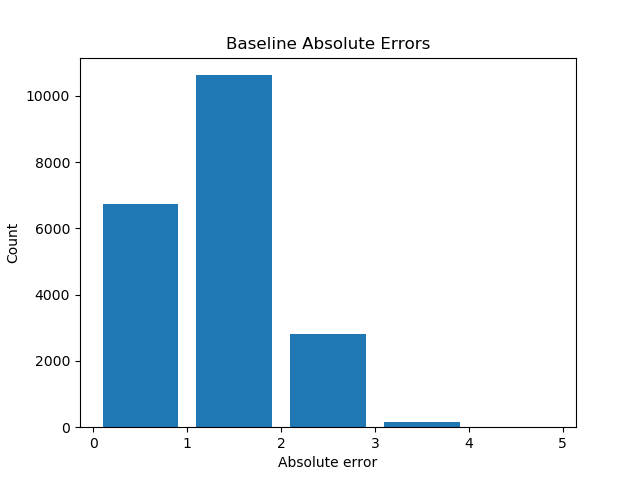
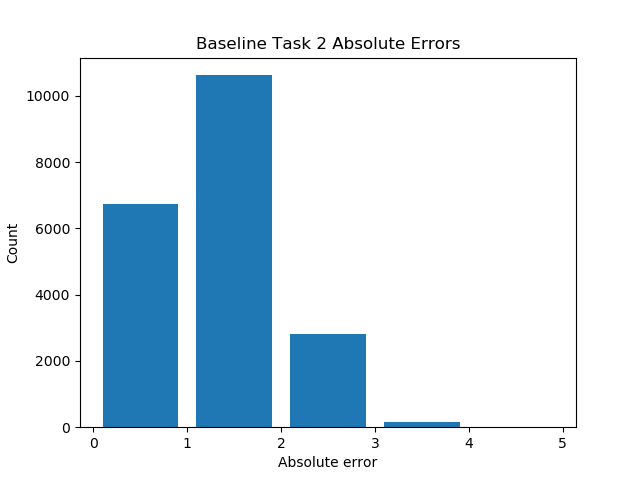
Revision 3

Changed region(s): [[0.3125, 0.0625, 0.7188, 0.125]]

diff --git a/base.py b/base.py
@@ -159,15 +159,18 @@ if validate == 'y':
 
 hist, bins = np.histogram(histogram_data, bins=[0,1,2,3,4,5])
 plt.bar([0.5, 1.5, 2.5, 3.5, 4.5], hist)
-plt.title("Baseline Absolute Errors")
 plt.xlabel("Absolute error")
 plt.ylabel("Count")
 if validate == 'y':
+    plt.title("Baseline Validate Absolute Errors")
     plt.savefig("BASE-validate.png")
 elif validate == '2':
+    plt.title("Baseline Task 2 Absolute Errors")
     plt.savefig("BASE-task2.png")    
 else:
+    plt.title("Baseline jarye Absolute Errors")
     plt.savefig("BASE-jarye.png")
+plt.close()
 error_dist = [x for x in hist if x > 0]
 print(f"{error_dist=}")
 
@@ -176,10 +179,9 @@ print(f"{error_dist=}")
 if run_improved == 'y' and validate == '2':
 
     U_MIN = 100
-    NEIGHBOURS_NUMBER_LIST = [100] # min 1000
+    NEIGHBOURS_NUMBER_LIST = [100]
     PROPORTION_OF_PREDICT_VS_SIM_LIST = [(1,0.5)]
 
-    # fill with special values
     difference_matrix = np.full((max_user, max_user), np.nan)
     u_indexes, m_indexes = np.nonzero(training_matrix) # if rating exists
     for u_index, m_index in zip(u_indexes, m_indexes):
@@ -198,23 +200,6 @@ if run_improved == 'y' and validate == '2':
     else:
         distance_matrix = pickle.load(open("IMPROVED-task2-distance_matrix-U_MIN-{U_MIN}.p".format(U_MIN=str(U_MIN)), "rb"))
 
-    def get_similarity(training_data, user, movie, neighbours):
-        sim_denominator = 0.0
-        sim_numerator = 0.0
-        for neighbour in neighbours:
-            if training_data[user, neighbour] != 0:
-                sim_numerator += (
-                    distance_matrix[movie, neighbour]
-                    * difference_matrix[user, neighbour]
-                )
-                sim_denominator += abs(distance_matrix[movie, neighbour])
-        if sim_denominator != 0:
-            return sim_numerator * 1.0 / sim_denominator
-        elif user < U_MIN * sum(PROPORTION_OF_PREDICT_VS_SIM_LIST[0]):
-            return np.nan
-        else:
-            return 0.0
-
     def trial_and_error(NEIGHBOURS_NUMBER, PROPORTION_OF_PREDICT, PROPORTION_OF_SIM):
         improved_matrix = np.full([max_user, max_movie], np.nan)
         print('\n')
@@ -224,9 +209,19 @@ if run_improved == 'y' and validate == '2':
             ))
             neighbours = np.argsort([abs(x) for x in distance_matrix[m_index]])[::-1][:NEIGHBOURS_NUMBER]
             for u_index in range(max_user):
-                similarity = get_similarity(training_matrix, u_index, m_index, neighbours)
-                temp_val = training_matrix_predicted[u_index, m_index] + similarity
-                improved_matrix[u_index, m_index] = temp_val if u_index > U_MIN else np.nan # TODO
+
+                neighbourhood_denominator = sum([abs(distance_matrix[m_index, neighbour]) for neighbour in neighbours if not training_matrix[u_index, neighbour] == 0.0])
+
+                if not neighbourhood_denominator == 0:
+                    neighbourhood_numberator = sum([distance_matrix[m_index, neighbour] * difference_matrix[u_index, neighbour] for neighbour in neighbours if not training_matrix[u_index, neighbour] == 0.0])
+                    similarity_score = neighbourhood_numberator / neighbourhood_denominator
+                elif u_index < U_MIN * sum(PROPORTION_OF_PREDICT_VS_SIM_LIST[0]):
+                    similarity_score = np.nan
+                else:
+                    similarity_score = 0.0
+
+                improved_matrix[u_index, m_index] = training_matrix_predicted[u_index, m_index] + similarity_score if u_index > U_MIN else np.nan
+
         improved_matrix = np.clip(improved_matrix, 1, 5)
 
         rmse_test_improved = 0
@@ -247,10 +242,10 @@ if run_improved == 'y' and validate == '2':
         hist, bins = np.histogram(histogram_data, bins=[0,1,2,3,4,5])
         plt.figure(1)
         plt.bar([0.5, 1.5, 2.5, 3.5, 4.5], hist)
-        plt.title("Baseline Absolute Errors")
-        plt.xlabel("Absolute error")
+        plt.title("Improved Task 2 Absolute Errors")
+        plt.xlabel("Absolute Error")
         plt.ylabel("Count")
-        plt.savefig("IMPROVED-task2.png")
+        # plt.savefig("IMPROVED-task2.png")
         plt.close()
         error_dist_improved = [x for x in hist if x > 0]
         print(f"{error_dist_improved=}")    
